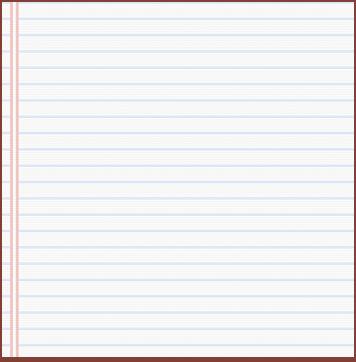
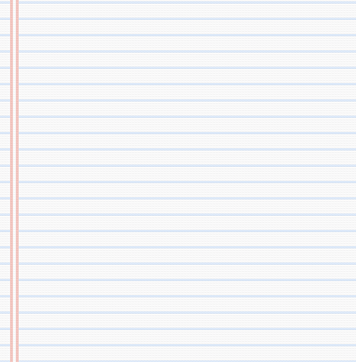
jour 8?9?

Changed region(s): [[0.0, 0.0, 1.0, 1.0]]

diff --git a/src/about-me.html b/src/about-me.html
@@ -136,13 +136,20 @@
               <div class="row">
                 <div class="col-9">
                   <div class="about-mail">
-                    <p class="about-mail-contact">Contactez moi !</p>
+                    <p class="about-mail-contact">
+                      <span>Contactez moi !</span>
+                      <span>eva@fauxmail</span>
+                    </p>
                   </div>
                 </div>
+
                 <div class="about-space-between-contact"></div>
                 <div class="col-9 offset-3">
                   <div class="about-mail">
-                    <p class="about-mail-contact">Contactez moi !</p>
+                    <p class="about-mail-contact">
+                      <span>Contactez moi !</span>
+                      <span>evafauxnumtéléphone</span>
+                    </p>
                   </div>
                 </div>
               </div>

diff --git a/src/scss/_about-me.scss b/src/scss/_about-me.scss
@@ -100,6 +100,10 @@
   border-bottom: 4px solid #d8a286;
   border-left: 2px solid #d8a286;
   background: #f8e6d0;
+
+  span:last-child {
+    display: none;
+  }
 }
 
 .about-mail:hover {
@@ -111,6 +115,14 @@
 
   p {
     font-weight: 700;
+  }
+
+  span:first-child {
+    display: none;
+  }
+
+  span:last-child {
+    display: block;
   }
 }
 

diff --git a/src/scss/_project-detail.scss b/src/scss/_project-detail.scss
@@ -34,9 +34,15 @@
 }
 
 .project-logos-all {
+  margin: auto;
   padding: 26px 40px;
   display: flex;
   align-items: center;
-  align-content: center;
-  gap: 13px;
+  justify-content: center;
+  gap: 40px;
+}
+
+.about-present {
+  background-repeat: no-repeat;
+  height: 100%;
 }
